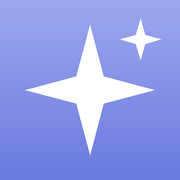
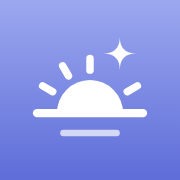
Add files via upload

Changed region(s): [[0.1389, 0.1389, 0.8611, 0.8611], [0.5833, 0.1111, 0.8889, 0.3889]]

diff --git a/index.html b/index.html
@@ -7,7 +7,8 @@
 <meta name="description" content="Seu dia organizado. Sua vida mais leve. Assistente pessoal com IA para agenda, tarefas, contas e lembretes.">
 <meta name="theme-color" content="#DEE2FB">
 <link rel="manifest" href="/manifest.webmanifest">
-<link rel="icon" type="image/png" href="/icon-192.png">
+<link rel="icon" type="image/png" sizes="32x32" href="/favicon-32.png">
+<link rel="icon" type="image/svg+xml" href="/logo.svg">
 <link rel="apple-touch-icon" href="/apple-touch-icon.png">
 <meta name="apple-mobile-web-app-capable" content="yes">
 <meta name="mobile-web-app-capable" content="yes">
@@ -75,7 +76,7 @@ main.chat .wrap{flex:1;min-height:0;width:100%;gap:12px}
   #app{flex-direction:row}
   #tabs{position:static;width:240px;flex:none;display:flex;flex-direction:column;align-items:stretch;gap:2px;border-radius:0;box-shadow:none;
     border-right:1px solid var(--sep);padding:22px 12px}
-  #tabs .brand{display:block;order:-2;font-size:12px;font-weight:800;letter-spacing:.16em;color:var(--accent);padding:4px 12px 14px}
+  #tabs .brand{display:block;order:-2;padding:4px 10px 16px}
   #tabs .side-only{display:flex}
   #tabs [data-v]{flex-direction:row;gap:12px;font-size:15px;padding:10px 12px;border-radius:12px;color:var(--fg)}
   #tabs [data-v] svg{color:var(--fg2)}
@@ -285,6 +286,12 @@ main.chat .wrap{flex:1;min-height:0;width:100%;gap:12px}
 
 /* ---------- login ---------- */
 body{margin:0}
+.lockup{display:inline-flex;align-items:center;gap:10px;color:var(--fg)}
+.lockup .wm{font-size:19px;font-weight:800;letter-spacing:-.03em}
+.lockup .ia{font-size:11px;font-weight:800;color:#fff;background:#5868D4;padding:2px 7px;border-radius:999px;letter-spacing:0}
+.lockup-lg{gap:12px}.lockup-lg .wm{font-size:30px}.lockup-lg .ia{font-size:14px;padding:3px 9px}
+:root[data-theme="dark"] .lockup .ia{background:#A9B4F5;color:#15161B}
+@media (prefers-color-scheme: dark){:root:not([data-theme="light"]) .lockup .ia{background:#A9B4F5;color:#15161B}}
 .eyebrow{font-size:12px;font-weight:800;letter-spacing:.16em;color:var(--accent)}
 #auth{height:100%;overflow-y:auto;display:flex;align-items:center;justify-content:center;
   padding:calc(24px + env(safe-area-inset-top,0px)) max(16px,env(safe-area-inset-right,0px)) calc(24px + env(safe-area-inset-bottom,0px)) max(16px,env(safe-area-inset-left,0px));
@@ -329,7 +336,7 @@ button:disabled{cursor:default}
 <div id="auth" hidden></div>
 <div id="app" hidden>
   <nav id="tabs" aria-label="Seções">
-    <div class="brand">MEU DIA IA</div>
+    <div class="brand"><span class="lockup"><svg width="30" height="30" viewBox="0 0 100 100" aria-hidden="true"><defs><linearGradient id="lg-side" x1="0" y1="0" x2="0" y2="1"><stop offset="0" stop-color="#9CA8EF"/><stop offset="1" stop-color="#5E6DD8"/></linearGradient></defs><rect width="100" height="100" rx="23" fill="url(#lg-side)"/><path d="M30 64 A20 20 0 0 1 70 64 Z" fill="#FFFFFF"/><path d="M18 64 H82" stroke="#FFFFFF" stroke-width="5" stroke-linecap="round"/><path d="M34 76 H66" stroke="#FFFFFF" stroke-width="4" stroke-linecap="round" stroke-opacity="0.7"/><g stroke="#FFFFFF" stroke-width="4.5" stroke-linecap="round"><path d="M50 38 V31"/><path d="M37 41.5 L33.5 35.4"/><path d="M27.5 51 L21.4 47.5"/><path d="M72.5 51 L78.6 47.5"/></g><path d="M68 18 Q68 28 78 28 Q68 28 68 38 Q68 28 58 28 Q68 28 68 18 Z" fill="#FFFFFF"/></svg><span class="wm">Meu Dia</span><span class="ia">IA</span></span></div>
     <button data-v="inicio"><svg class="i"><use href="#i-home"/></svg>Início</button>
     <button data-v="agenda"><svg class="i"><use href="#i-cal"/></svg>Agenda</button>
     <div class="fab-cell"><button id="fab" aria-label="Adicionar"><svg class="i"><use href="#i-plus"/></svg><span>Adicionar</span></button></div>
@@ -1080,8 +1087,8 @@ function showAuth(){ $('#app').hidden = true; $('#sheet').hidden = true; $('#aut
 function renderAuth(){
   const M = { entrar:['Entrar','Acesse sua conta'], criar:['Criar conta','Comece grátis em 1 minuto'], esqueci:['Recuperar senha','Enviaremos um link para o seu e-mail'], nova:['Nova senha','Escolha uma nova senha para sua conta'] }[authMode];
   $('#auth').innerHTML = `<div class="auth-card">
-    <div class="eyebrow">MEU DIA IA</div>
-    <h1 class="hello">${M[0]}</h1>
+    <div class="lockup lockup-lg"><svg width="52" height="52" viewBox="0 0 100 100" aria-hidden="true"><defs><linearGradient id="lg-auth" x1="0" y1="0" x2="0" y2="1"><stop offset="0" stop-color="#9CA8EF"/><stop offset="1" stop-color="#5E6DD8"/></linearGradient></defs><rect width="100" height="100" rx="23" fill="url(#lg-auth)"/><path d="M30 64 A20 20 0 0 1 70 64 Z" fill="#FFFFFF"/><path d="M18 64 H82" stroke="#FFFFFF" stroke-width="5" stroke-linecap="round"/><path d="M34 76 H66" stroke="#FFFFFF" stroke-width="4" stroke-linecap="round" stroke-opacity="0.7"/><g stroke="#FFFFFF" stroke-width="4.5" stroke-linecap="round"><path d="M50 38 V31"/><path d="M37 41.5 L33.5 35.4"/><path d="M27.5 51 L21.4 47.5"/><path d="M72.5 51 L78.6 47.5"/></g><path d="M68 18 Q68 28 78 28 Q68 28 68 38 Q68 28 58 28 Q68 28 68 18 Z" fill="#FFFFFF"/></svg><span class="wm">Meu Dia</span><span class="ia">IA</span></div>
+    <h1 class="hello" style="margin-top:18px">${M[0]}</h1>
     <p class="sub" style="margin:0">${M[1]}</p>
     <form id="auth-form" class="auth-form" novalidate>
       ${authMode === 'criar' ? `<label for="a-name">Seu nome<input id="a-name" autocomplete="given-name" maxlength="40" required></label>` : ''}

diff --git a/sw.js b/sw.js
@@ -1,8 +1,8 @@
 // Meu Dia IA · service worker
 // 1) Guarda a "casca" do app para abrir rápido e aguentar internet instável (nunca guarda dados do usuário).
 // 2) Recebe os alertas do servidor (Web Push) e mostra a notificação, mesmo com o app fechado.
-const CACHE = 'meudia-v2';
-const SHELL = ['/', '/manifest.webmanifest', '/icon-192.png', '/icon-512.png', '/apple-touch-icon.png'];
+const CACHE = 'meudia-v3';
+const SHELL = ['/', '/manifest.webmanifest', '/icon-192.png', '/icon-512.png', '/apple-touch-icon.png', '/logo.svg', '/favicon-32.png'];
 
 self.addEventListener('install', e => {
   e.waitUntil(caches.open(CACHE).then(c => c.addAll(SHELL)));
